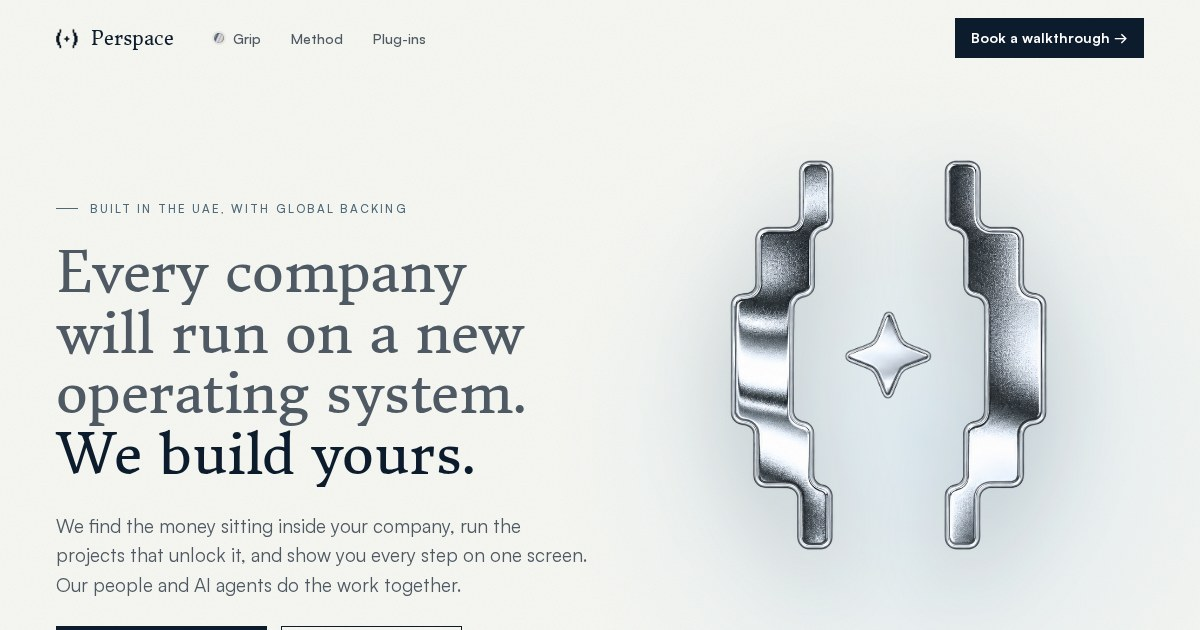
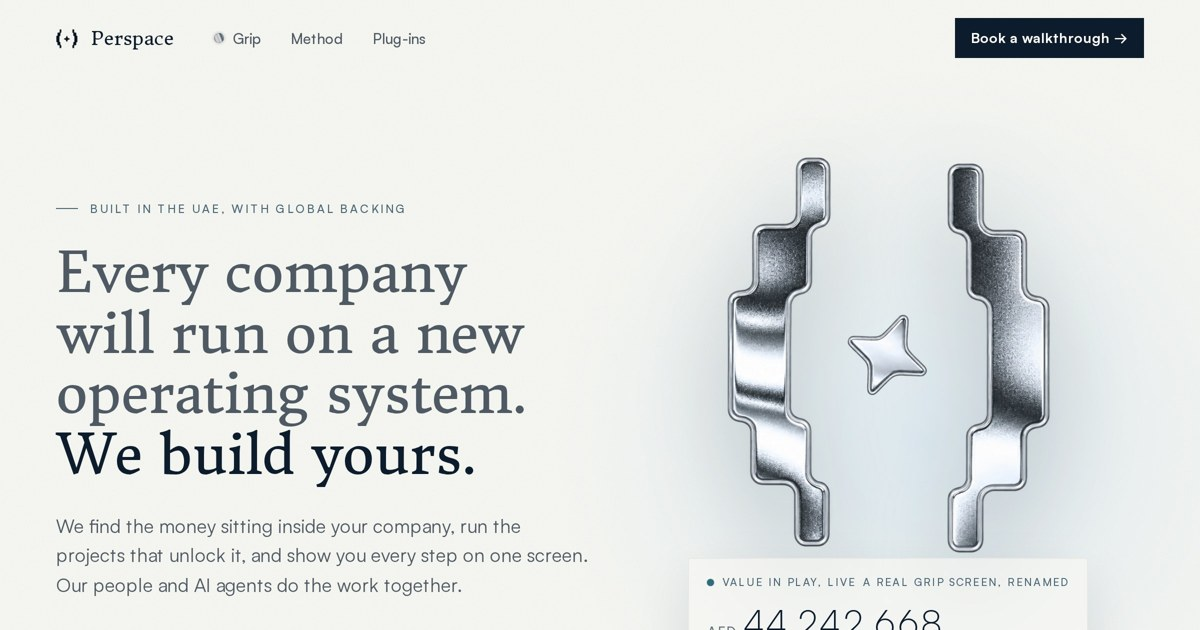
Home meter keeps AED 52M (Peter, 9 Oct: switch to the real counter only when real value passes 52M); share image unchanged
Claude-Session: https://claude.ai/code/session_01HXiG3Pia9WkaWdEYZtkjxE

diff --git a/index.html b/index.html
@@ -6,7 +6,7 @@
 <link rel="icon" type="image/png" href="img/favicon.png">
 <meta property="og:title" content="Perspace · We operate the future">
 <meta property="og:description" content="Every company will run on a new operating system. We build yours.">
-<meta property="og:image" content="https://perspace.ai/img/og-perspace.jpg?v=20261009b">
+<meta property="og:image" content="https://perspace.ai/img/og-perspace.jpg?v=20261009">
 <meta property="og:url" content="https://perspace.ai/">
 <meta name="twitter:card" content="summary_large_image">
 <link href="https://api.fontshare.com/v2/css?f[]=satoshi@300,400,500,700&display=swap" rel="stylesheet">
@@ -528,7 +528,7 @@ nav.open .mnu i:first-child{transform:translateY(3.75px) rotate(45deg)}nav.open 
   // live value meter (figures from the Meridian demo world, hob-cockpit hq/method/dashboard/demo/demo-world.js: never a client, Peter 9 Oct 2026)
   const ctr=document.getElementById('ctr'),feed=document.getElementById('feed');
   /* the meter adds up: it counts to a fixed base once, then moves only by the amount of each line that lands, then holds */
-  const BASE=5500000, ev=[["Pocket found","Price list leakage","invoices vs price list",0],["Workflow live","Rebates claimed on time","+ 182,000",182000],["Traced","Route log against delivery notes","file linked",0],["Decision approved","Idle truck days, rerouted","+ 96,400",96400],["Pocket found","Lines lost at top customers","orders by line",0],["Workflow live","Monthly report, now minutes","+ 15,000",15000]];
+  const BASE=52114600, ev=[["Pocket found","Price list leakage","invoices vs price list",0],["Workflow live","Rebates claimed on time","+ 182,000",182000],["Traced","Route log against delivery notes","file linked",0],["Decision approved","Idle truck days, rerouted","+ 96,400",96400],["Pocket found","Lines lost at top customers","orders by line",0],["Workflow live","Monthly report, now minutes","+ 15,000",15000]];
   const fmt=n=>Math.round(n).toLocaleString('en-US'); let v=0,shown=0,i=0,tok=0;
   function tween(to,ms){const from=shown,t0=performance.now(),me=++tok;v=to;(function f(t){if(me!==tok)return;const k=Math.min(1,(t-t0)/ms),e=1-Math.pow(1-k,3);shown=from+(to-from)*e;ctr.textContent=fmt(shown);if(k<1)requestAnimationFrame(f);})(t0);}
   function add(){const e=ev[i++];const r=document.createElement('div');r.className='row';r.innerHTML='<span class="k">'+e[0]+'</span><span>'+e[1]+'</span><span class="v">'+e[2]+'</span>';feed.insertBefore(r,feed.firstChild);while(feed.children.length>3)feed.removeChild(feed.lastChild);if(e[3])tween(v+e[3],900);}
